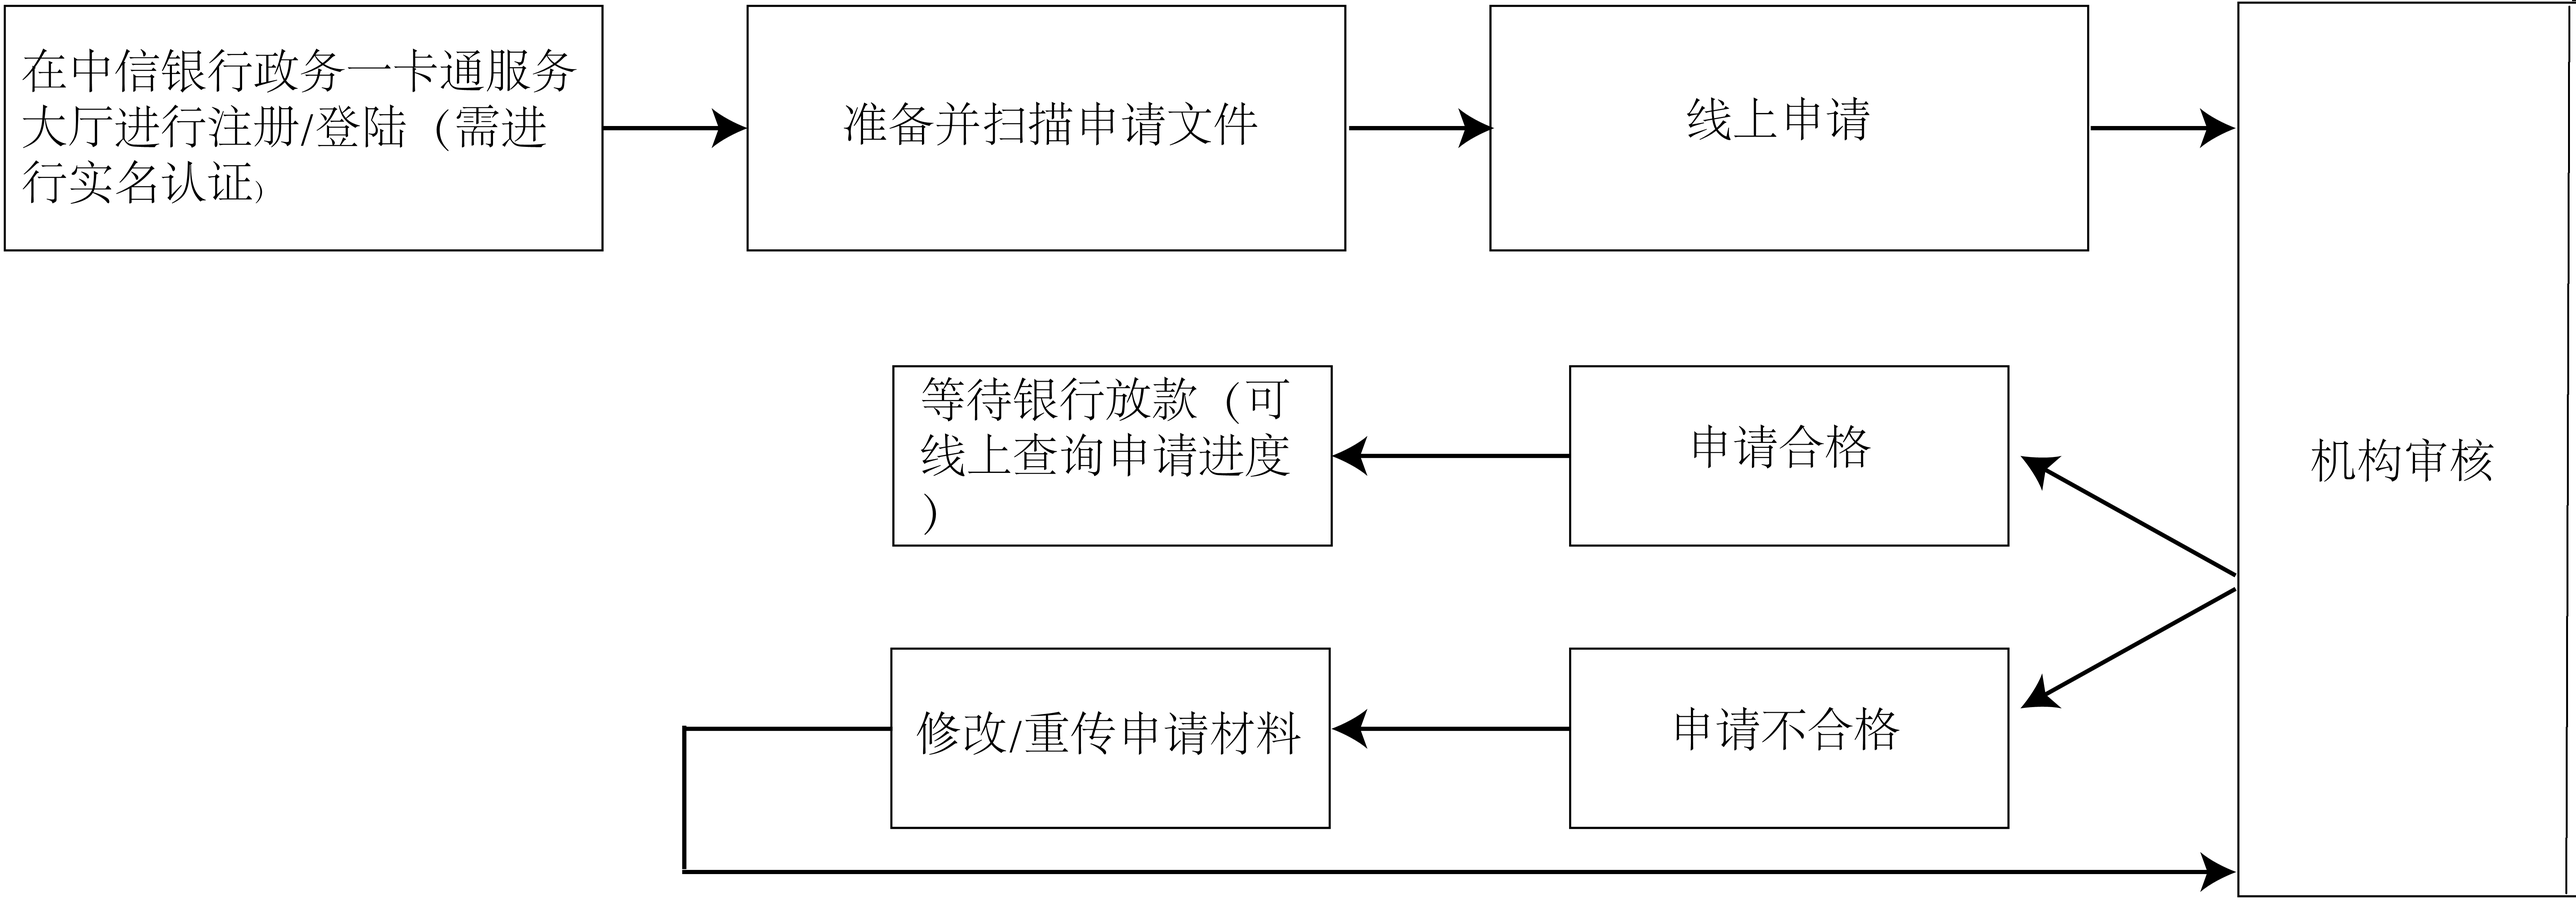
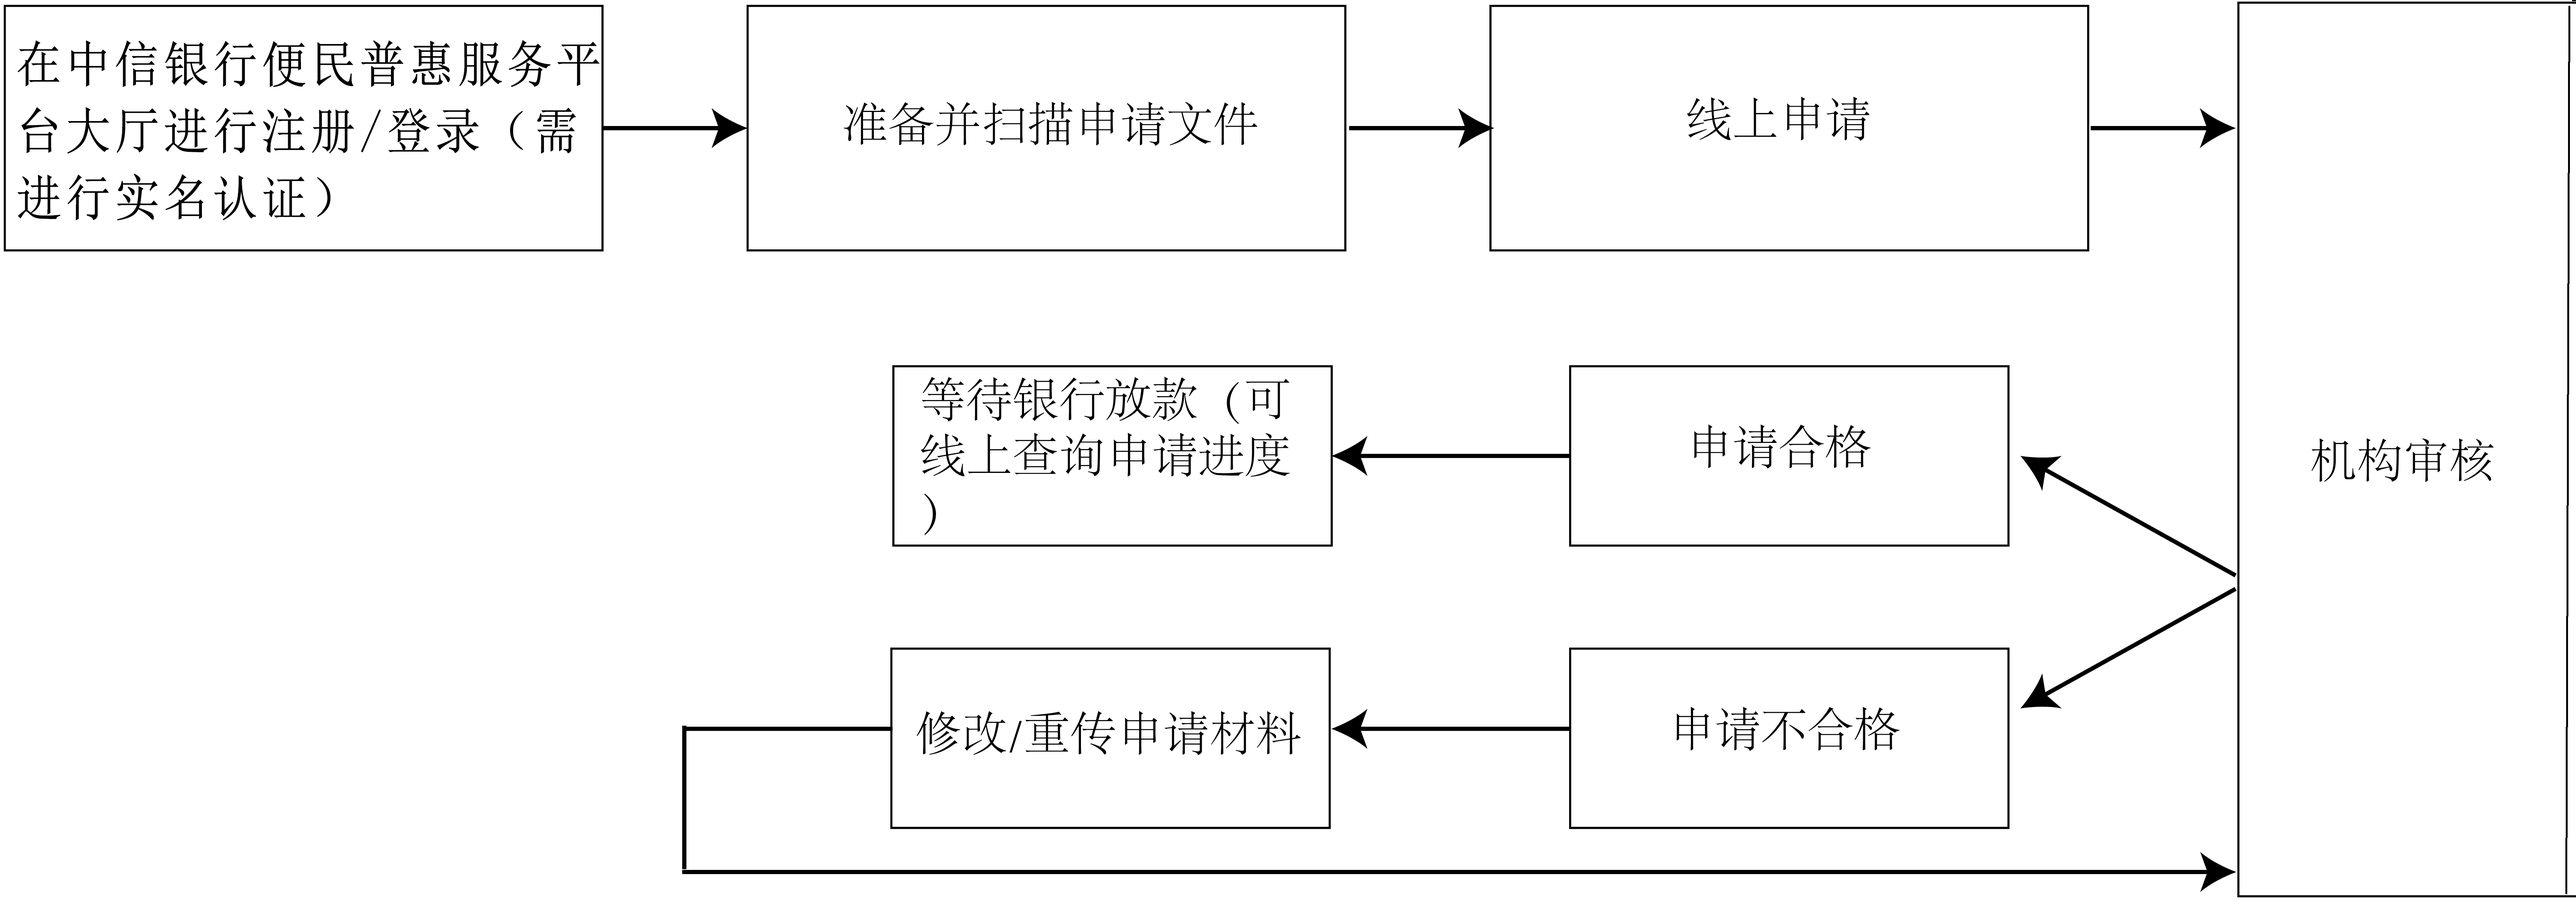
修改obj对象；

Changed region(s): [[0.0, 0.0309, 0.2499, 0.2472]]

diff --git a/src/views/DisableFederation.vue b/src/views/DisableFederation.vue
@@ -12,7 +12,7 @@
                 <el-dialog title="" :visible.sync="dialogFormVisible">
                     <div class="applyHead">
                         <img class="applyLogo" src="../assets/logo.jpg"/>
-                        <span class="applyTileText"><span class="firstText"> | 政务一网通 </span>| 中国残疾人联合会津贴申请</span>
+                        <span class="applyTileText"><span class="firstText"> | 便民普惠服务平台 </span>| 中国残疾人联合会津贴申请</span>
                     </div>
                     <el-form :model="form">
 
@@ -43,7 +43,7 @@
                 <el-dialog width="60%" style="margin-right: 50px" title="" :visible.sync="saveVisible">
                     <div class="applyHead">
                         <img class="applyLogo" src="../assets/logo.jpg"/>
-                        <span class="applyTileText"><span class="firstText"> | 政务一网通 </span>| 中国残疾人联合会津贴申请</span>
+                        <span class="applyTileText"><span class="firstText"> | 便民普惠服务平台 </span>| 中国残疾人联合会津贴申请</span>
                     </div>
 
                     <!--申请信息-->
@@ -209,7 +209,7 @@
             <el-col :span="20">
                 <div class="applyProcess" v-if="this.activeIndex==1">
                     <el-steps :active="5" align-center>
-                        <el-step title="步骤1" description="在中信银行政务一网通服务大厅注册"></el-step>
+                        <el-step title="步骤1" description="在中信银行便民普惠服务平台服务大厅注册"></el-step>
                         <el-step title="步骤2" description="准备申请文件"></el-step>
                         <el-step title="步骤3" description="线上申请"></el-step>
                         <el-step title="步骤4" description="等待机构审核结果(通过/不通过)"></el-step>
@@ -314,10 +314,18 @@
             },
             submitForm(formName) {
                 let obj = {
-                    id_card: sessionStorage.getItem('id_card'),
-                    user_name: sessionStorage.getItem('user_name'),
-                    type_id: this.$route.name,
-                    userInfo: this.$refs[formName].model
+                    // id_card: sessionStorage.getItem('id_card'),
+                    // user_name: sessionStorage.getItem('user_name'),
+                    // type_id: this.$route.name,
+                    // user: this.$refs[userinfo].model,
+                    // apply:{
+                        add1: this.$refs[userinfo].model.id_card,    //id_card
+                        add2: this.$refs[userinfo].model.user_name, //username
+                        type_id : this.$route.name,
+                        add4: this.$refs[applyinfo].model.apply_number,
+                        add5: this.$refs[userinfo].model.user_bank,
+
+                    // }
                 }
                 this.axios.post('api/applySave', obj).then((response) => {
                     if(response.data.meta.success){

diff --git a/src/views/OrphanAllowance.vue b/src/views/OrphanAllowance.vue
@@ -12,7 +12,7 @@
                 <el-dialog title="" :visible.sync="dialogFormVisible">
                     <div class="applyHead">
                         <img class="applyLogo" src="../assets/logo.jpg"/>
-                        <span class="applyTileText"><span class="firstText"> | 政务一网通 </span>| 分散孤儿价格临时补贴申请</span>
+                        <span class="applyTileText"><span class="firstText"> | 便民普惠服务平台 </span>| 分散孤儿价格临时补贴申请</span>
                     </div>
                     <el-form :model="form">
 
@@ -43,7 +43,7 @@
                 <el-dialog width="60%" style="margin-right: 50px" title="" :visible.sync="saveVisible">
                     <div class="applyHead">
                         <img class="applyLogo" src="../assets/logo.jpg"/>
-                        <span class="applyTileText"><span class="firstText"> | 政务一网通 </span>| 分散孤儿价格临时补贴申请</span>
+                        <span class="applyTileText"><span class="firstText"> | 便民普惠服务平台 </span>| 分散孤儿价格临时补贴申请</span>
                     </div>
 
                     <!--申请信息-->
@@ -209,7 +209,7 @@
             <el-col :span="20">
                 <div class="applyProcess" v-if="this.activeIndex==1">
                     <el-steps :active="5" align-center>
-                        <el-step title="步骤1" description="在中信银行政务一网通服务大厅注册"></el-step>
+                        <el-step title="步骤1" description="在中信银行便民普惠服务平台服务大厅注册"></el-step>
                         <el-step title="步骤2" description="准备申请文件"></el-step>
                         <el-step title="步骤3" description="线上申请"></el-step>
                         <el-step title="步骤4" description="等待机构审核结果(通过/不通过)"></el-step>
@@ -314,10 +314,18 @@
             },
             submitForm(formName) {
                 let obj = {
-                    id_card: sessionStorage.getItem('id_card'),
-                    user_name: sessionStorage.getItem('user_name'),
-                    type_id: this.$route.name,
-                    userInfo: this.$refs[formName].model
+                    // id_card: sessionStorage.getItem('id_card'),
+                    // user_name: sessionStorage.getItem('user_name'),
+                    // type_id: this.$route.name,
+                    // user: this.$refs[userinfo].model,
+                    // apply:{
+                        add1: this.$refs[userinfo].model.id_card,    //id_card
+                        add2: this.$refs[userinfo].model.user_name, //username
+                        type_id : this.$route.name,
+                        add4: this.$refs[applyinfo].model.apply_number,
+                        add5: this.$refs[userinfo].model.user_bank,
+
+                    // }
                 }
                 this.axios.post('api/applySave', obj).then((response) => {
                     if(response.data.meta.success){

diff --git a/src/views/LowestLifeGuarantee.vue b/src/views/LowestLifeGuarantee.vue
@@ -12,7 +12,7 @@
                 <el-dialog title="" :visible.sync="dialogFormVisible">
                     <div class="applyHead">
                         <img class="applyLogo" src="../assets/logo.jpg"/>
-                        <span class="applyTileText"><span class="firstText"> | 政务一网通 </span>| 城市最低生活保障金申请</span>
+                        <span class="applyTileText"><span class="firstText"> | 便民普惠服务平台 </span>| 城市最低生活保障金申请</span>
                     </div>
                     <el-form :model="form">
 
@@ -43,7 +43,7 @@
                 <el-dialog width="60%" style="margin-right: 50px" title="" :visible.sync="saveVisible">
                     <div class="applyHead">
                         <img class="applyLogo" src="../assets/logo.jpg"/>
-                        <span class="applyTileText"><span class="firstText"> | 政务一网通 </span>| 城市最低生活保障金申请</span>
+                        <span class="applyTileText"><span class="firstText"> | 便民普惠服务平台 </span>| 城市最低生活保障金申请</span>
                     </div>
 
                     <!--申请信息-->
@@ -209,7 +209,7 @@
             <el-col :span="20">
                 <div class="applyProcess" v-if="this.activeIndex==1">
                     <el-steps :active="5" align-center>
-                        <el-step title="步骤1" description="在中信银行政务一网通服务大厅注册"></el-step>
+                        <el-step title="步骤1" description="在中信银行便民普惠服务平台服务大厅注册"></el-step>
                         <el-step title="步骤2" description="准备申请文件"></el-step>
                         <el-step title="步骤3" description="线上申请"></el-step>
                         <el-step title="步骤4" description="等待机构审核结果(通过/不通过)"></el-step>
@@ -314,10 +314,18 @@
             },
             submitForm(formName) {
                 let obj = {
-                    id_card: sessionStorage.getItem('id_card'),
-                    user_name: sessionStorage.getItem('user_name'),
-                    type_id: this.$route.name,
-                    userInfo: this.$refs[formName].model
+                    // id_card: sessionStorage.getItem('id_card'),
+                    // user_name: sessionStorage.getItem('user_name'),
+                    // type_id: this.$route.name,
+                    // user: this.$refs[userinfo].model,
+                    // apply:{
+                        add1: this.$refs[userinfo].model.id_card,    //id_card
+                        add2: this.$refs[userinfo].model.user_name, //username
+                        type_id : this.$route.name,
+                        add4: this.$refs[applyinfo].model.apply_number,
+                        add5: this.$refs[userinfo].model.user_bank,
+
+                    // }
                 }
                 this.axios.post('api/applySave', obj).then((response) => {
                     if(response.data.meta.success){

diff --git a/src/views/AgeAllowance.vue b/src/views/AgeAllowance.vue
@@ -12,7 +12,7 @@
                 <el-dialog title="" :visible.sync="dialogFormVisible">
                     <div class="applyHead">
                         <img class="applyLogo" src="../assets/logo.jpg"/>
-                        <span class="applyTileText"><span class="firstText"> | 政务一网通 </span>| 高龄津贴申请</span>
+                        <span class="applyTileText"><span class="firstText"> | 便民普惠服务平台 </span>| 高龄津贴申请</span>
                     </div>
                     <el-form :model="form">
 
@@ -43,7 +43,7 @@
                 <el-dialog width="60%" style="margin-right: 50px" title="" :visible.sync="saveVisible">
                     <div class="applyHead">
                         <img class="applyLogo" src="../assets/logo.jpg"/>
-                        <span class="applyTileText"><span class="firstText"> | 政务一网通 </span>| 高龄津贴申请</span>
+                        <span class="applyTileText"><span class="firstText"> | 便民普惠服务平台 </span>| 高龄津贴申请</span>
                     </div>
 
                     <!--申请信息-->
@@ -209,7 +209,7 @@
             <el-col :span="20">
                 <div class="applyProcess" v-if="this.activeIndex==1">
                     <el-steps :active="5" align-center>
-                        <el-step title="步骤1" description="在中信银行政务一网通服务大厅注册"></el-step>
+                        <el-step title="步骤1" description="在中信银行便民普惠服务平台服务大厅注册"></el-step>
                         <el-step title="步骤2" description="准备申请文件"></el-step>
                         <el-step title="步骤3" description="线上申请"></el-step>
                         <el-step title="步骤4" description="等待机构审核结果(通过/不通过)"></el-step>
@@ -314,10 +314,18 @@
             },
             submitForm(formName) {
                 let obj = {
-                    id_card: sessionStorage.getItem('id_card'),
-                    user_name: sessionStorage.getItem('user_name'),
-                    type_id: this.$route.name,
-                    userInfo: this.$refs[formName].model
+                    // id_card: sessionStorage.getItem('id_card'),
+                    // user_name: sessionStorage.getItem('user_name'),
+                    // type_id: this.$route.name,
+                    // user: this.$refs[userinfo].model,
+                    // apply:{
+                        add1: this.$refs[userinfo].model.id_card,    //id_card
+                        add2: this.$refs[userinfo].model.user_name, //username
+                        type_id : this.$route.name,
+                        add4: this.$refs[applyinfo].model.apply_number,
+                        add5: this.$refs[userinfo].model.user_bank,
+
+                    // }
                 }
                 this.axios.post('api/applySave', obj).then((response) => {
                     if(response.data.meta.success){

diff --git a/src/views/EmploymentIncentive.vue b/src/views/EmploymentIncentive.vue
@@ -12,7 +12,7 @@
                 <el-dialog title="" :visible.sync="dialogFormVisible">
                     <div class="applyHead">
                         <img class="applyLogo" src="../assets/logo.jpg"/>
-                        <span class="applyTileText"><span class="firstText"> | 政务一网通 </span>| 大学生创业吸纳就业奖励申请</span>
+                        <span class="applyTileText"><span class="firstText"> | 便民普惠服务平台 </span>| 大学生创业吸纳就业奖励申请</span>
                     </div>
                     <el-form :model="form">
 
@@ -43,7 +43,7 @@
                 <el-dialog width="60%" style="margin-right: 50px" title="" :visible.sync="saveVisible">
                     <div class="applyHead">
                         <img class="applyLogo" src="../assets/logo.jpg"/>
-                        <span class="applyTileText"><span class="firstText"> | 政务一网通 </span>| 大学生创业吸纳就业奖励申请</span>
+                        <span class="applyTileText"><span class="firstText"> | 便民普惠服务平台 </span>| 大学生创业吸纳就业奖励申请</span>
                     </div>
 
                     <!--申请信息-->
@@ -209,7 +209,7 @@
             <el-col :span="20">
                 <div class="applyProcess" v-if="this.activeIndex==1">
                     <el-steps :active="5" align-center>
-                        <el-step title="步骤1" description="在中信银行政务一网通服务大厅注册"></el-step>
+                        <el-step title="步骤1" description="在中信银行便民普惠服务平台服务大厅注册"></el-step>
                         <el-step title="步骤2" description="准备申请文件"></el-step>
                         <el-step title="步骤3" description="线上申请"></el-step>
                         <el-step title="步骤4" description="等待机构审核结果(通过/不通过)"></el-step>
